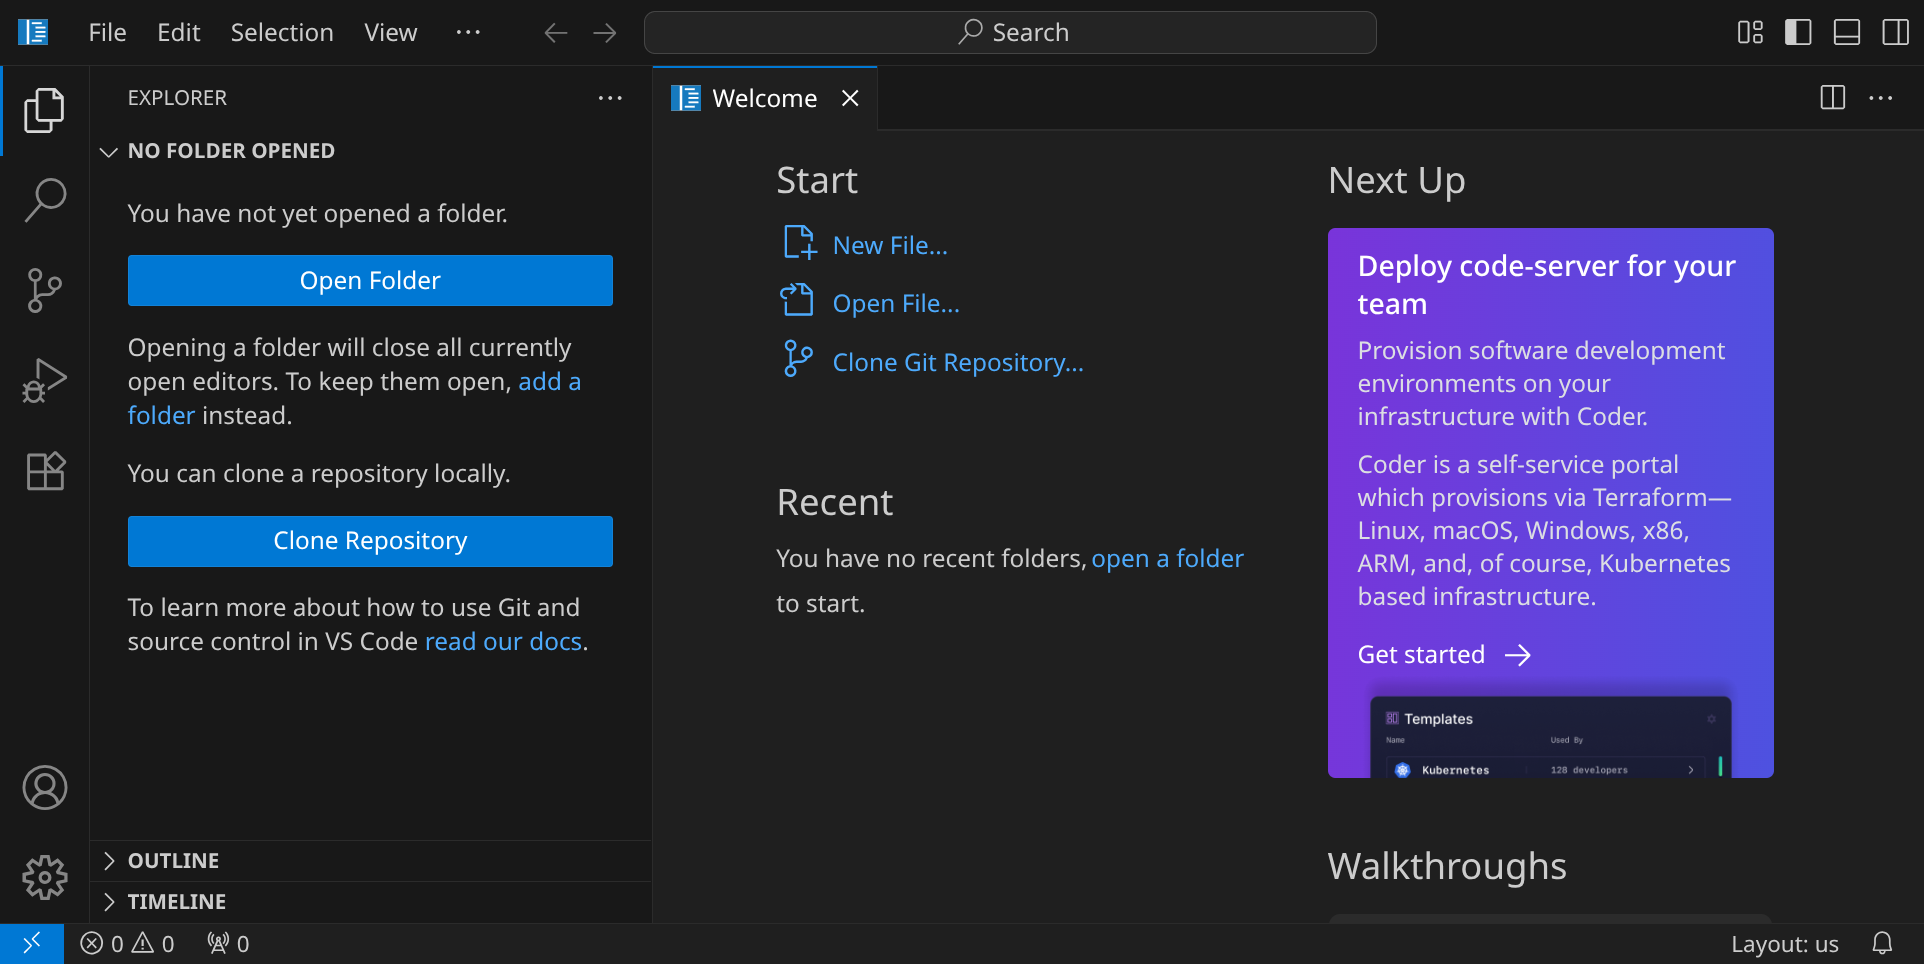
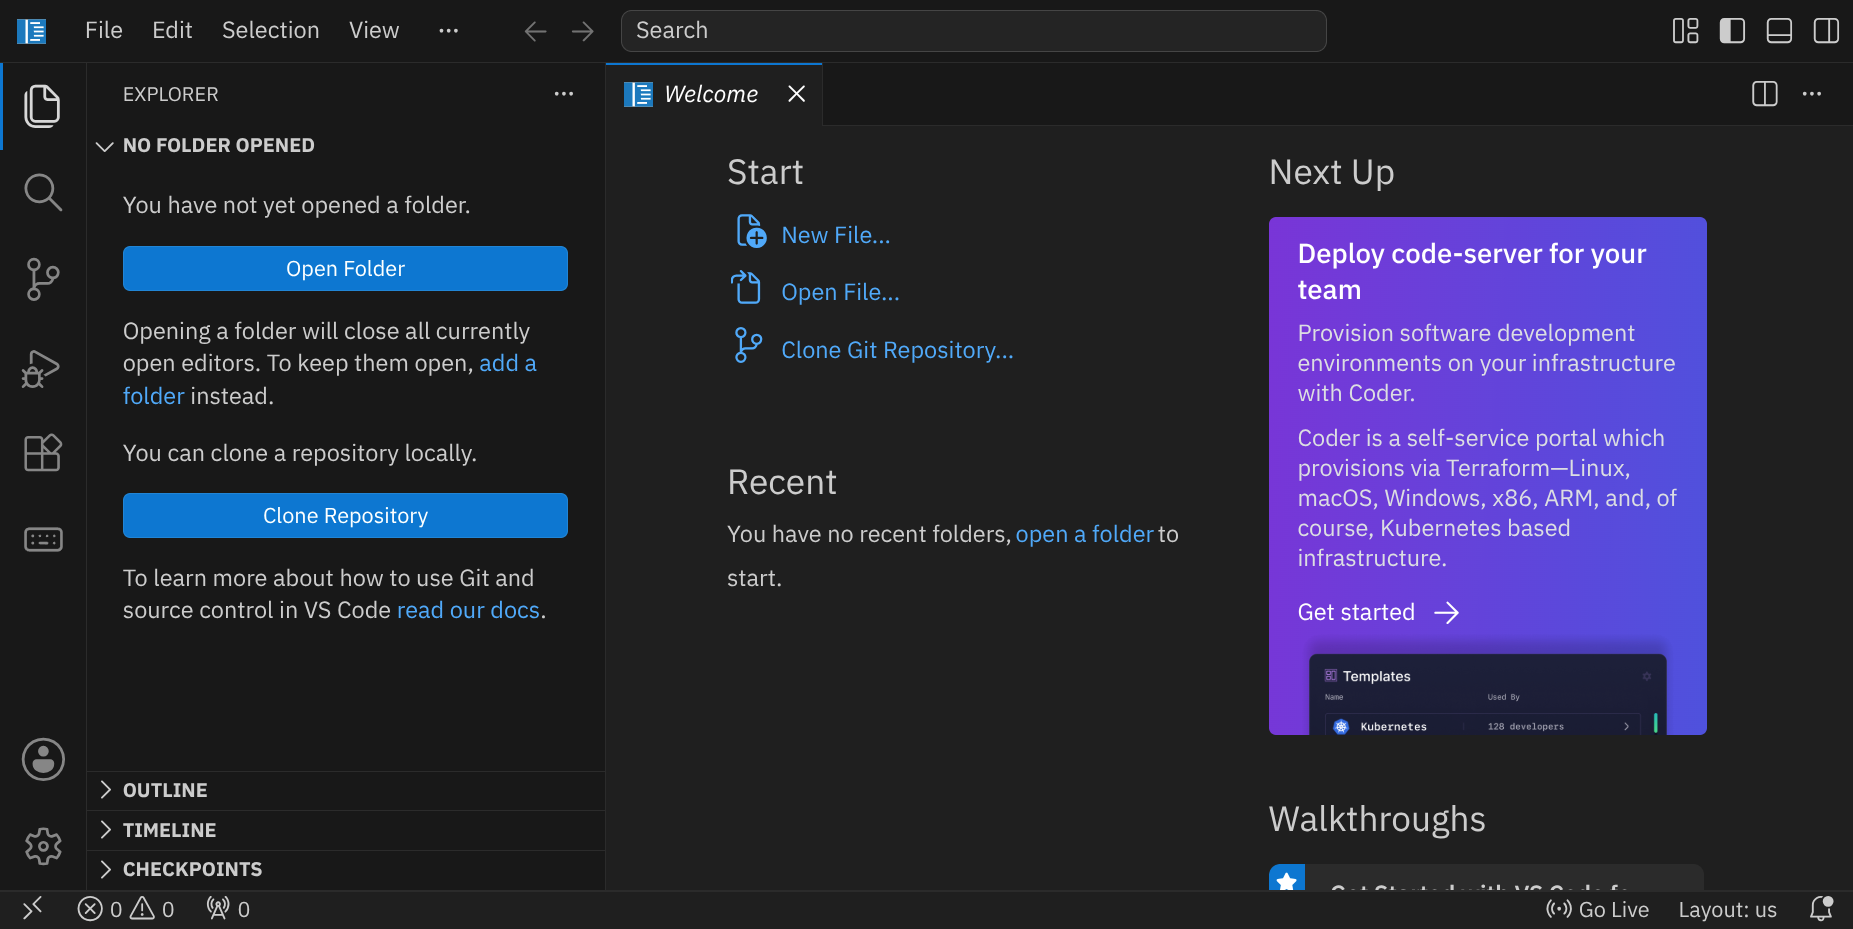
yay

diff --git a/src/content/basics/basics.md b/src/content/basics/basics.md
@@ -5,7 +5,7 @@ image: vs-code-welcome.webp:0:50
 # Die Basics
 
 <p class='abstract'>
-Eine kleine Tour durch die Benutzeroberfläche von Visual Studio Code, gefolgt von ein paar grundlegenden Hinweisen zur Arbeit mit Dateien und Verzeichnissen. Lerne die wichtigsten Shortcuts und Funktionen zum Bearbeiten von und Navigieren innerhalb von Textdateien kennen.
+Eine kleine Tour durch die Benutzeroberfläche von Visual Studio Code, gefolgt von grundlegenden Hinweisen zur Arbeit mit Dateien, Ordnern und Projekten. Lerne wichtige Shortcuts und Funktionen zum Bearbeiten von Text kennen und erfahre, wie du mit Checkpoints sichere Zwischenstände deiner Arbeit anlegst.
 </p>
 
 Wenn du den Workspace öffnest, siehst du die Entwicklungsumgebung Visual Studio Code:
@@ -14,9 +14,10 @@ Wenn du den Workspace öffnest, siehst du die Entwicklungsumgebung Visual Studio
 
 ## Die Benutzeroberfläche
 
-Am linken Rand sieht du einige Icons, die wichtig sind:
+Am linken Rand siehst du einige Icons, die wichtig sind:
 
 <table class='table'>
+<tr>
 <td><img class='sq-icon' src='explorer.webp'></td>
 <td>Explorer (<span class='key'>Strg</span><span class='key'>Shift</span><span class='key'>E</span>) &ndash; hier siehst du alle Dateien und Unterordner des aktuell geöffneten Projekts</td>
 </tr>
@@ -35,6 +36,10 @@ Am linken Rand sieht du einige Icons, die wichtig sind:
 <tr>
 <td><img class='sq-icon' src='extensions.webp'></td>
 <td>Extensions (<span class='key'>Strg</span><span class='key'>Shift</span><span class='key'>X</span>) &ndash; hier findest du viele nützliche Erweiterungen</td>
+</tr>
+<tr>
+<td><img class='sq-icon' src='keyboard-tutorial.webp'></td>
+<td>Hackschule Keyboard-Tutorial &ndash; hier lernst du die wichtigsten Funktionen der Tastatur kennen</td>
 </tr>
 </table>
 
@@ -59,106 +64,91 @@ Rechts oben siehst du mehrere Buttons, mit denen du das Layout anpassen oder ver
 </tr>
 </table>
 
-## Dateien, Verzeichnisse, Pfade
+## Dateien, Projekte, Verzeichnisse und Pfade
 
 <img src='directory-tree.webp' class='r' style='width: 15em;'>
 
-Wenn du am Computer arbeitest, speicherst du deine Arbeit in Dateien. Jede Datei hat einen Dateinamen (der normalerweise auch eine Erweiterung wie z. B. `.jpg` oder `.html` enthält) und befindet sich in einem Verzeichnis, das sich wiederum in einem anderen Verzeichnis befinden kann. So entsteht ein Verzeichnisbaum.
+Wenn du am Computer arbeitest, speicherst du deine Arbeit in Dateien. Jede Datei hat einen Dateinamen, der normalerweise auch eine Erweiterung wie `.jpg`, `.html`, `.py` oder `.rb` enthält. Die Dateiendung ist ein Teil des Namens und zeigt oft, um welche Art von Datei es sich handelt.
 
-Der vollständige Pfad zu einer Datei setzt sich dann aus allen Verzeichnissen und dem Dateinamen zusammen, z. B:
+Ein Projekt besteht normalerweise aus einem Ordner und den darin enthaltenen Dateien und Unterordnern. Im Explorer wird diese Struktur als Verzeichnisbaum dargestellt. Die Abbildung rechts zeigt ein Beispiel mit mehreren Dateien und Unterordnern.
 
-`/workspace/pictures/monkey.jpg`
+Der Pfad `pictures/monkey.jpg` beschreibt, wo sich die Datei `monkey.jpg` innerhalb eines Projektordners befindet. Der vollständige Pfad zu einer Datei setzt sich aus allen übergeordneten Verzeichnissen und dem Dateinamen zusammen, zum Beispiel:
 
-Unter Linux ist das oberste Verzeichnis immer `/`, unter Windows beginnt es immer mit einem Laufwerksbuchstaben wie z. B. `C:\`. Ein weiterer Unterschied zu Linux ist, dass unter Windows `\` statt `/` verwendet wird, um Verzeichnisse im Pfad voneinander abzutrennen.
+`/workspace/shower.js/pictures/monkey.jpg`
 
-Im Hackschule Workspace ist es so, dass du deine Projekte und Dateien im Verzeichnis `/workspace` ablegen kannst – es ist dein Home-Verzeichnisd. Du kannst dir in diesem Verzeichnis eine beliebige Verzeichnisstruktur anlegen.
+Unter Linux ist das oberste Verzeichnis immer `/`, unter Windows beginnt ein Pfad meistens mit einem Laufwerksbuchstaben wie `C:\`. Außerdem verwendet Windows normalerweise `\` statt `/`, um Verzeichnisse voneinander zu trennen.
 
-## Shortcuts
+Im Hackschule Workspace legst du deine Projekte und Dateien im Verzeichnis `/workspace` ab. Dort kannst du dir eine beliebige Ordnerstruktur anlegen. Deine Dateien bleiben gespeichert, wenn du den Browser schließt, und du kannst später von zu Hause oder von einem anderen Gerät aus weiterarbeiten.
 
-Zum Schluss noch ein paar Tipps zur Tastatur: es gibt einige praktische Funktionen, die es quasi überall gibt:
+## Checkpoints: Zwischenstände sichern
 
-<table class='table'>
-<tr>
-<td style='width: 1em;'><span class='key'>Strg</span><span class='key'>C</span></td>
-<td>Kopieren (copy)</td>
-</tr>
-<tr>
-<td><span class='key'>Strg</span><span class='key'>V</span></td>
-<td>Einfügen (paste)</td>
-</tr>
-<tr>
-<td><span class='key'>Strg</span><span class='key'>X</span></td>
-<td>Ausschneiden (cut)</td>
-</tr>
-<tr>
-<td><span class='key'>Strg</span><span class='key'>Z</span></td>
-<td>Rückgängig (undo)</td>
-</tr>
-</table>
+Mit der vorinstallierten Erweiterung **Checkpoints** kannst du einen Zwischenstand deines Projekts festhalten. Das ist besonders nützlich, bevor du eine größere Änderung ausprobierst.
+
+Ein guter Zeitpunkt für einen Checkpoint ist zum Beispiel:
+
+- bevor du funktionierenden Code grundlegend umbaust,
+- bevor du mehrere Dateien gleichzeitig änderst,
+- nachdem du eine wichtige Teilaufgabe abgeschlossen hast,
+- oder bevor du eine neue Idee ausprobierst, bei der du noch nicht weißt, ob sie funktioniert.
+
+Gib einem Checkpoint einen kurzen, verständlichen Namen, zum Beispiel:
+
+```text
+Navigation funktioniert
+```
+
+oder:
+
+```text
+Vor dem Umbau des Menüs
+```
+
+Wenn später etwas schiefgeht, kannst du zu einem früheren Zwischenstand zurückkehren.
+
+Um einen Checkpoint zu erstellen, wechsle links in den Explorer und klappe den Bereich **Checkpoints** auf. Klicke auf das Plus-Symbol, um einen neuen Checkpoint zu erstellen.
+
+<img src='create-checkpoint.webp' class='full'>
+
+Du kannst einen Namen für den Checkpoint eingeben und mit <span class='key'>Enter</span> bestätigen. 
+
+<img src='enter-checkpoint-name.webp' class='full'>
+
+Der Checkpoint wird dann gespeichert:
+
+<img src='checkpoint-created.webp' class='full'>
+
+Falls du später zu einem Checkpoint zurückkehren möchtest, klicke auf den entsprechenden Eintrag in der Liste:
+
+<img src='restore-checkpoint.webp' class='full'>
+
 
 <div class='hint'>
 <p>
-Dazu noch ein wichtiger Hinweis: In den unteren Ecken deiner Tastatur findest du ein paar sogenannte <em>Modifikatortasten</em>, z. B.
-<span class='key'>Strg</span>,
-<span class='key'>Shift</span>,
-<span class='key'>Alt</span>,
-<span class='key'>Win</span> und
-<span class='key'>AltGr</span>. Diese Tasten haben meistens keinen Effekt, wenn man sie alleine drückt, sondern sie werden für Tastenkombinationen verwendet, die meistens aus einer oder mehreren Hilfstasten und einer »richtigen« Taste bestehen. Um einen ausgewählten Text mit <span class='key'>Strg</span><span class='key'>C</span> zu kopieren, musst du also erst <span class='key'>Strg</span> gedrückt halten und dann einmal <span class='key'>C</span> tippen.
-</p>
-<p>
-Du kannst Modifikatortasten auch verwenden, um Sonderzeichen einzugeben, genauso wie du Großbuchstaben mit <span class='key'>Shift</span> (auch: Umschalttaste) eingeben kannst.
+Intern verwendet die Checkpoints-Erweiterung Git, um die Zwischenstände zu speichern, ohne dass du dich um die Details kümmern musst. Du kannst Checkpoints jederzeit wieder löschen, wenn du sie nicht mehr brauchst. Die gespeicherten Checkpoints werden separat von eventuell vorhandenen Commits in einem Git-Repository verwaltet.
 </p>
 </div>
 
+Wenn du sicher im Umgang mit Git bist, kannst du auch direkt Git verwenden, um deine Arbeit zu sichern.
 
-## Bearbeiten von Text
+## Tastatur und Textbearbeitung
 
-Gerade am Anfang kann es sein, dass du beim Tippen und Navigieren in einer Datei relativ langsam bist. Es ist aber wie mit so vielen Dingen: mit der Zeit kommt die Übung. 🤠 Wenn du eine gewissen Übung hast, bist du mit der Tastatur oft schneller, als wenn du erst zur Maus greifen musst, um an eine bestimmte Stelle zu klicken.
+Gerade am Anfang kann es sein, dass du beim Tippen, Markieren und Navigieren in einer Datei noch relativ langsam bist. Das ist völlig normal: Mit der Zeit kommt die Übung. 🤠 Wenn du etwas Erfahrung gesammelt hast, bist du mit der Tastatur oft schneller, als wenn du für jeden Arbeitsschritt erst zur Maus greifen musst.
 
-Du kannst Webseiten wie [keybr.com](https://www.keybr.com/) nutzen, um deine Tippgeschwindigkeit zu trainieren. Darüberhinaus wirst du schneller, wenn du ein paar wesentliche Tasten deiner Tastatur kennenlernst:
+### Das Keyboard-Tutorial starten
 
-### Navigation
+Im Hackschule Workspace ist das **Hackschule Keyboard-Tutorial** bereits installiert. Dort kannst du die wichtigsten Funktionen der Tastatur direkt in Visual Studio Code ausprobieren. Das Tutorial führt dich Schritt für Schritt durch Themen wie:
 
-Die folgenden Shortcuts funktionieren nicht nur in Visual Studio Code, sondern in fast allen anderen Programmen:
+- Navigation in einem Dokument,
+- Markieren und Bearbeiten von Text,
+- Suchen und Ersetzen,
+- Arbeiten mit mehreren Cursorpositionen,
+- Bearbeiten von Code,
+- sowie den Umgang mit Dateien, Ordnern und Tabs.
 
-<table class='table'>
-<tr>
-<td style='width: 14em;'><span class='key'>←</span> / <span class='key'>↑</span> / <span class='key'>→</span> / <span class='key'>↓</span></td>
-<td>bewegt den Cursor</td>
-</tr>
-<tr>
-<td><span class='key'>Pos1</span> / <span class='key'>Ende</span></td>
-<td>springt an den Anfang / das Ende einer Zeile</td>
-</tr>
-<tr>
-<td><span class='key'>Bild↑</span> / <span class='key'>Bild↓</span></td>
-<td>springt eine Seite hoch / runter</td>
-</tr>
-<tr>
-<td><span class='key'>Strg</span><span class='key'>←</span> / <span class='key'>Strg</span><span class='key'>→</span></td>
-<td>springt zum vorherigen / nächsten Wort</td>
-</tr>
-<tr>
-<td><span class='key'>Strg</span><span class='key'>Pos1</span> / <span class='key'>Strg</span><span class='key'>Ende</span></td>
-<td>springt an den Anfang / das Ende des Dokuments</td>
-</tr>
-<tr>
-</table>
+Klicke dazu links in der Aktivitätsleiste auf das Tastatur-Symbol. Anschließend öffnet sich der Bereich mit dem Keyboard-Tutorial:
 
-### Text auswählen und löschen
+<img class='full' src='keyboard-tutorial-pane.webp'>
 
-Halte <span class='key'>Shift</span> gedrückt, während du durch einen Text navigierst, um Text zu markieren.
+Beginne mit dem ersten Kapitel und arbeite die Übungen der Reihe nach durch. Das Tutorial erkennt viele deiner Arbeitsschritte automatisch und markiert erledigte Aufgaben mit einem grünen Haken. Deinen Fortschritt speichert es, sodass du später an derselben Stelle weitermachen kannst.
 
-Zum Löschen von einzelnen Zeichen gibt es zwei verschiedene Tasten, deren Unterschied man kennen sollte: <span style='width: 3em; display: inline-block;' class='key'>⟵</span> (Backspace) löscht das Zeichen links vom Cursor, während <span class='key'>Entf</span> das Zeichen rechts neben dem Cursor löscht. Oft gibt es Shortcuts, um ganze Zeilen zu löschen – in Visual Studio Code mit <span class='key'>Strg</span><span class='key'>Shift</span><span class='key'>K</span>.
-
-
-### Tastaturlayouts
-
-Vielleicht fragst du dich irgendwann, wieso beim Programmieren oft so viele merkwürdige und kompliziert zu tippende Zeichen einzugeben sind. Denke bitte daran, dass die Welt der Computer und Programmiersprachen vor allem eine US-amerikanisch geprägte Welt ist. 
-Die fehlenden Umlaute in der englischen Sprache bieten die Möglichkeit, die Tastatur anders zu belegen und Zeichen wie `[`, `]`, `{`, `}`, `@`, `\`, `~` und `|` direkt zu erreichen, ohne dass man sich dabei die Finger verrenken muss. Das bedeutet, dass die deutsche Tastaturbelegung nicht unbedingt die beste Tastaturbelegung für das Programmieren ist.
-
-Hier siehst du eine Tastatur mit US-Layout:
-
-<img class='full' src='us-layout.webp'>
-
- Es gibt spezielle Tastaturlayouts, die extra für Programmiererinnen und Programmierer entwickelt wurden, z. B. das [Neo-Tastaturlayout](https://neo-layout.org/), das [Colemak-Layout](https://colemak.com/) oder das [Dvorak-Layout](https://dvorak-keyboard.com/). Wenn du dich für das Thema interessierst, kannst du dich gerne mal damit beschäftigen. Es ist aber kein Muss, um programmieren zu lernen. Viel wichtiger ist es, dass du programmieren übst, egal mit welcher Tastatur. 🤓
+Wenn du die Übungen im Keyboard-Tutorial abgeschlossen hast, kannst du außerdem Webseiten wie [keybr.com](https://www.keybr.com/) nutzen, um deine Tippgeschwindigkeit zu trainieren.

diff --git a/src/content/about/about.md b/src/content/about/about.md
@@ -7,14 +7,18 @@ image: workspace.webp
 <img class='r' style='width: 8em;' src='vscode.png'>
 
 <p class='abstract'>
-Der Workspace der Hackschule ist eine Online-Entwicklungsumgebung, die speziell für den Einsatz in der Schule entwickelt wurde.
-Es handelt sich dabei um eine Web-Version von Visual Studio Code, einem beliebten Code-Editor, der von vielen Entwicklerinnen und Entwicklern weltweit verwendet wird.
+Der Hackschule Workspace ist eine Entwicklungsumgebung im Browser. Du kannst Programme schreiben, Webseiten erstellen und Projekte bearbeiten, ohne vorher Software installieren zu müssen.
+Der Workspace basiert auf Visual Studio Code, einem Code-Editor, der von vielen Entwicklerinnen und Entwicklern verwendet wird. Er wurde für den Einsatz in der Schule vorbereitet und enthält bereits nützliche Werkzeuge, Programmiersprachen und Erweiterungen.
 </p>
 
-Du kannst eigene Programme schreiben, sie ausführen und testen, ohne dass du etwas installieren musst. Der Workspace ist bereits mit vielen nützlichen Werkzeugen und Bibliotheken ausgestattet, die dir den Einstieg in die Programmierung erleichtern.
+Du kannst eigene Programme schreiben, sie ausführen und testen. Deine Dateien werden automatisch gespeichert und stehen dir auch später wieder zur Verfügung – in der Schule genauso wie zu Hause.
 
-## Programmieren lernen kostet Zeit und Geduld
+### Lernen durch Ausprobieren
 
-Programmieren lernen ist ein Prozess, der viel Zeit und Geduld erfordert. Jeder, der programmieren lernt, hat diese Erfahrung gemacht. Es ist normal, dass du nicht alles auf Anhieb verstehst. Da die einzelnen Technologien oft sehr umfangreich sind, findest du im Workspace keine vollständige Dokumentation zu allen Funktionen. Stattdessen findest du  kleine Tutorials, die dir einen konkreten Einstieg in eine Technologie bieten. Danach kannst du durch Ausprobieren und Recherchieren lernen, wie du sie in deinen Projekten einsetzen kannst.
+Programmieren zu lernen braucht Zeit und Geduld. Es ist völlig normal, dass nicht alles sofort funktioniert oder verständlich ist. Fehler gehören dazu: Sie zeigen dir, an welcher Stelle du genauer hinschauen und etwas Neues herausfinden kannst.
 
-Wenn du nach dem Unterricht weiter an deinem Projekt arbeiten möchtest, kannst du den Workspace genauso von zu Hause oder unterwegs aus verwenden. Deine Dateien sind sicher gespeichert und du kannst sie jederzeit wieder öffnen.
+Im Workspace findest du deshalb keine vollständige Dokumentation zu jeder Technologie. Stattdessen gibt es kleine Tutorials, Beispiele und Aufgaben, die dir einen konkreten Einstieg geben. Danach kannst du durch Ausprobieren, Recherchieren und eigenes Weiterbauen lernen.
+
+### So geht es weiter
+
+Öffne deinen Workspace und sieh dir zunächst den Artikel **Dein erster Start im Workspace** an. Wenn du zum ersten Mal mit Visual Studio Code arbeitest, beginne anschließend im Bereich **Hackschule** mit dem **Keyboard Tutorial**.

diff --git a/src/content/basic/basic.md b/src/content/basic/basic.md
@@ -92,7 +92,7 @@ Um BASIC zu beenden, gib `SYSTEM` ein und drücke <span class='key'>Enter</span>
 
 ### Fehler finden und beheben
 
-Wenn du einen Fehler im Code machst, wird Python eine Fehlermeldung ausgeben. Versuche zum Beispiel, statt `PRINT` das Wort `PRIN` zu schreiben:
+Wenn du einen Fehler im Code machst, wird BASIC eine Fehlermeldung ausgeben. Versuche zum Beispiel, statt `PRINT` das Wort `PRIN` zu schreiben:
 
 ```basic
 PRIN "Hello, World!"
